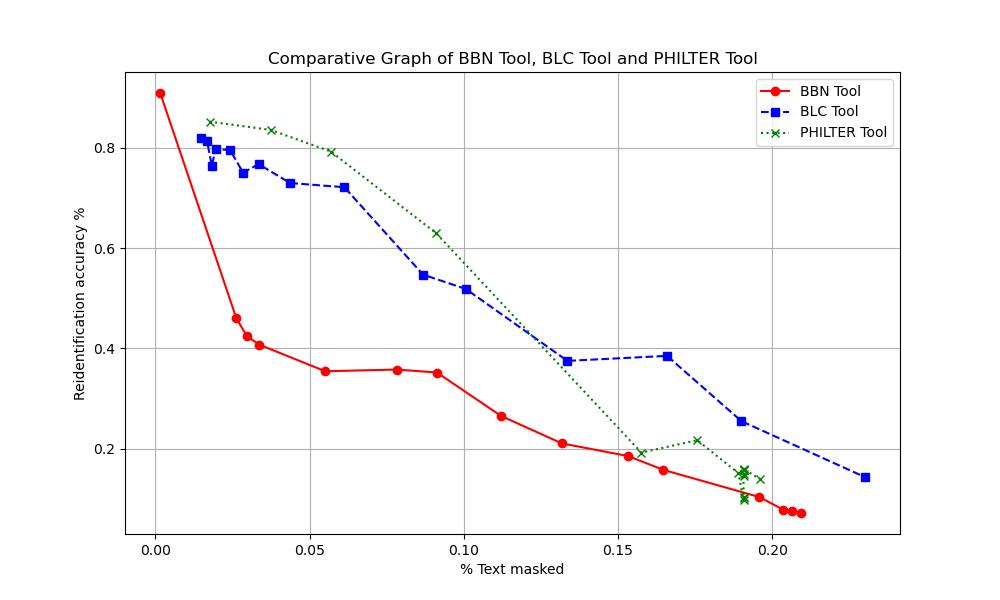
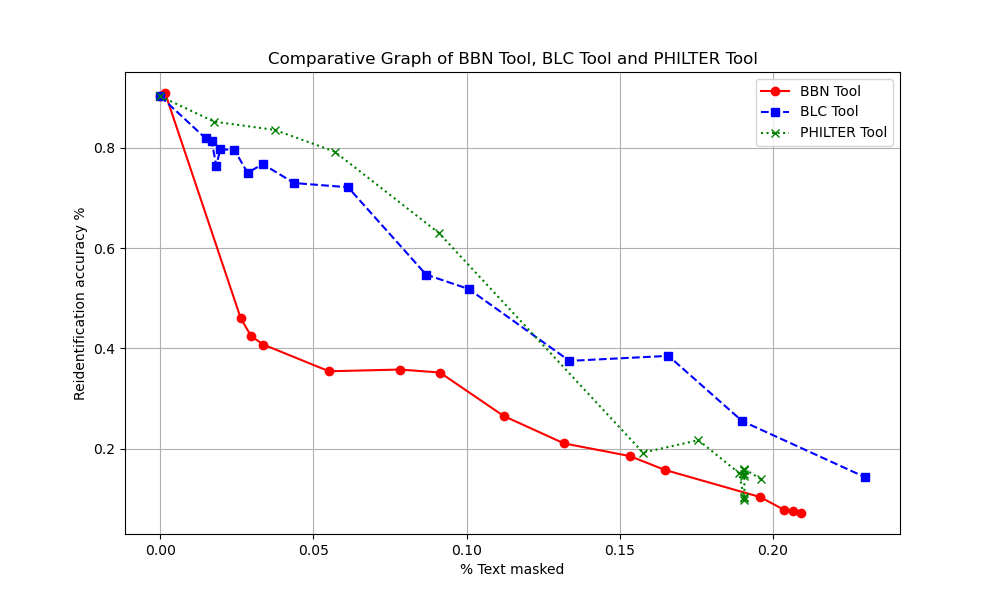
plot now contains point at x = 0

diff --git a/utils/plot_masking_percentage_vs_val_acc_graph.py b/utils/plot_masking_percentage_vs_val_acc_graph.py
@@ -3,6 +3,7 @@ import matplotlib.pyplot as plt
 # Updated data
 # EHR
 BBN_data = [
+[0.0000, 0.9028],
 [0.2065, 0.07627],
 [0.0263, 0.4598],
 [0.2092, 0.0719],
@@ -21,6 +22,7 @@ BBN_data = [
 
 # Deidentify
 BLC_data = [
+[0.0000, 0.9028],
 [0.0168, 0.8132],
 [0.1900, 0.2551],
 [0.0183, 0.7646],
@@ -39,6 +41,7 @@ BLC_data = [
 ]
 
 PHILTER_data = [
+[0.0000, 0.9028],
 [0.1907, 0.1597],
 [0.1890, 0.1514],
 [0.1907, 0.1568],
